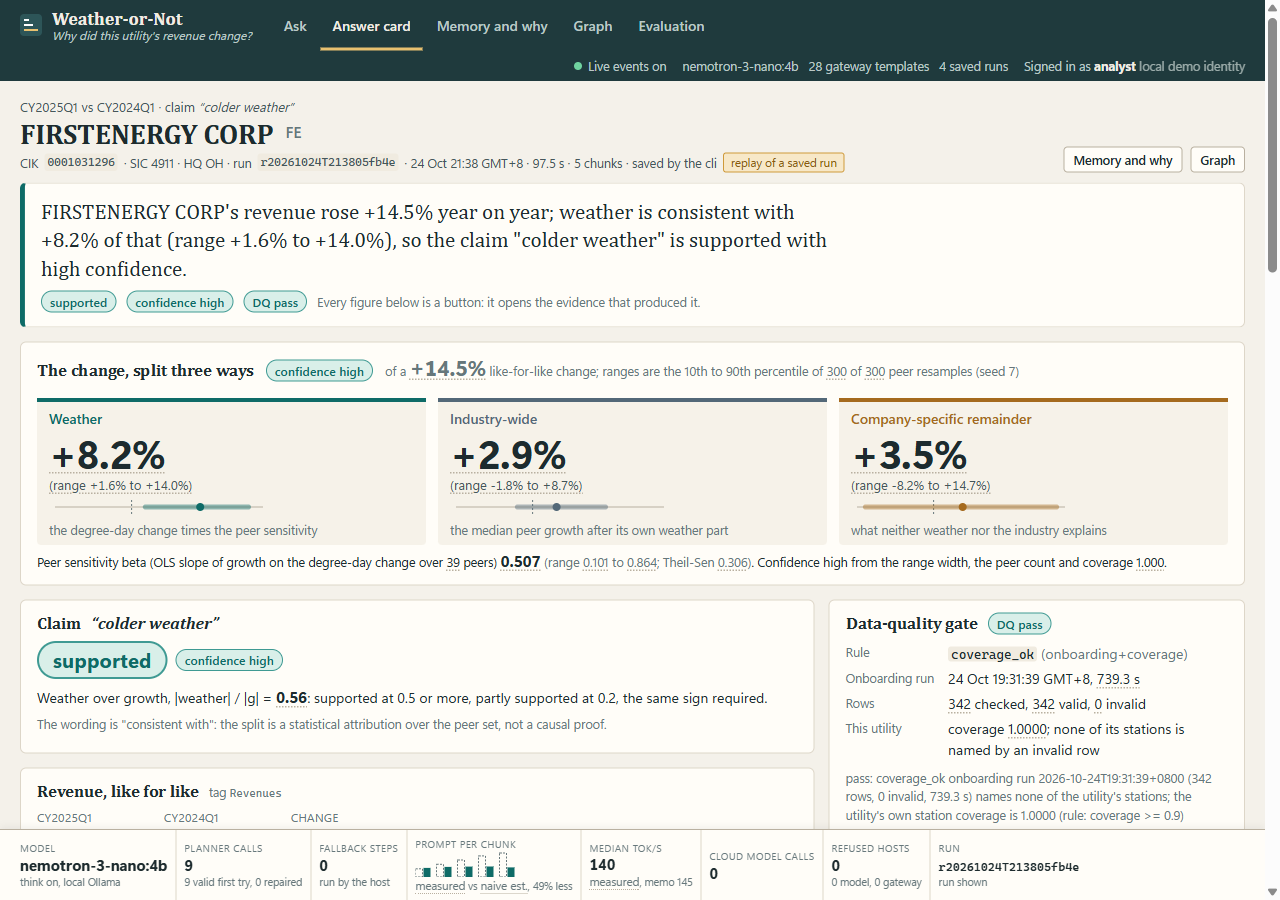
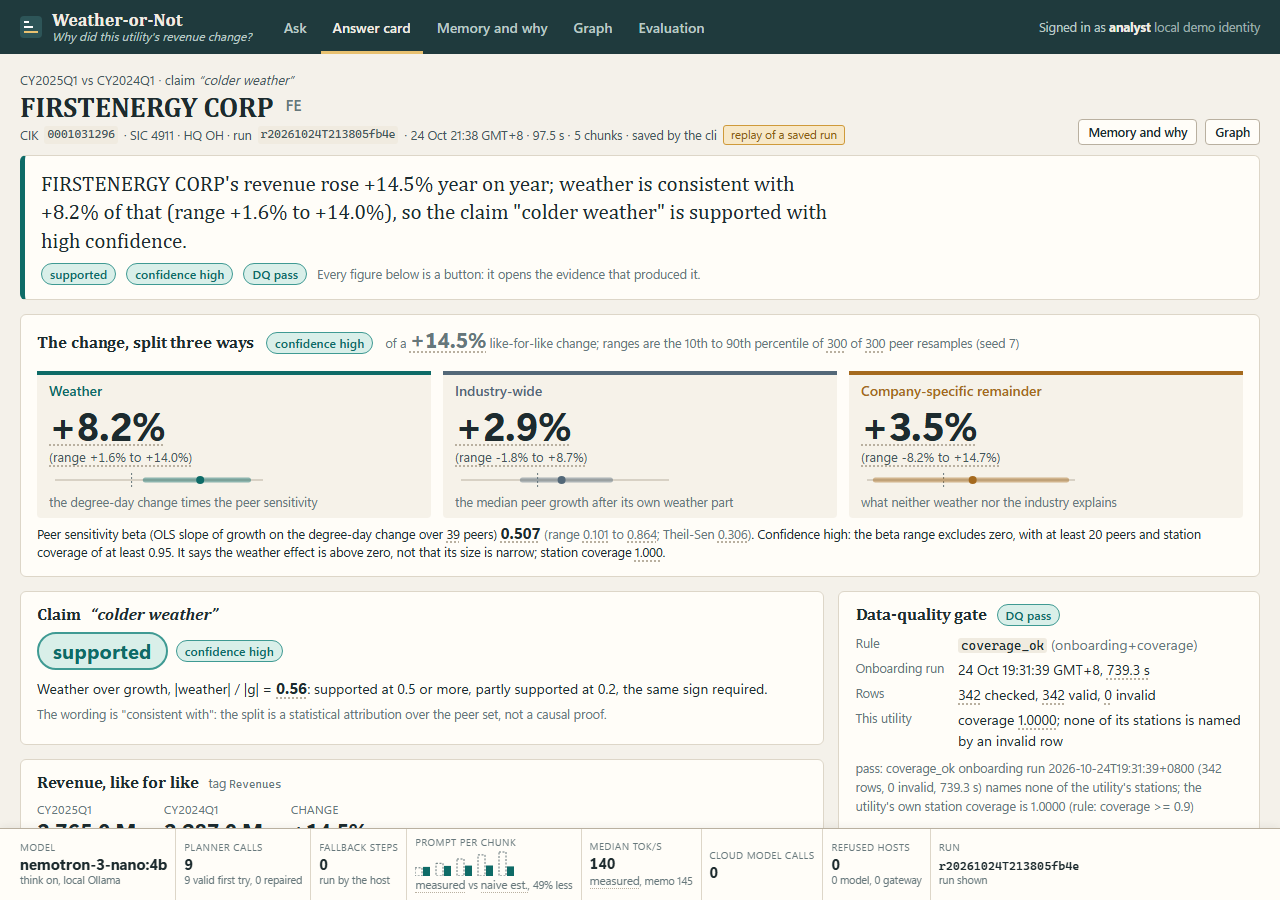
README: answer card first, the problem and the result in plain words, one line per sponsor technology
The top of the README now shows the FirstEnergy answer card, the problem in one paragraph, the result in two sentences with what "supported" (central estimate over half the change, ratio 0.56) and "high" (the beta range stays above zero with 39 peers and full coverage; not that 8.2 is precise) mean, one bullet each for Zetaris, Meterless and NVIDIA Nemotron, the single "Developed in Cursor" sentence, how to run, and links to the deck PDF and the demo case. The measured bullets follow under "Measured on the demo case". The card image is re-rendered from the saved run r20261024T213805fb4e with the repository's own card and footer views, offline, so it shows the corrected confidence sentence. Pre-existing code: ClearShelf is linked, with the measured share (28 files with the "Adapted from ClearShelf" header, 8,142 lines, 7,379 non-blank, at 4d2a5b6 and unchanged since). The NVIDIA section explains the video's 96 tokens/s footer (recorded under screen capture); the Scout row names the upstream injection regression set (same content as upstream, blob ca3dc0a), asserted case by case offline. how-cursor-was-used.md says "outside the three Cursor Agent runs".

diff --git a/README.md b/README.md
@@ -1,24 +1,40 @@
 # Weather-or-Not
 
-**The utility says it was the weather. Weather-or-Not checks.** It splits a US electric utility's year-on-year revenue change into a weather part, an industry-wide part and a company-specific remainder, each with a range and a confidence label, and cites every number to the Lightning SQL that produced it.
+**The utility says it was the weather. Weather-or-Not checks.**
 
 Open Agent Hackathon 2026, Track 2: The Agent That Can Explain Why. Team: Umar Mohktar, Singapore - solo.
 
-- **User:** anyone who is handed the sentence "it was the weather" and has to decide whether to believe it: a state utility-commission analyst or consumer advocate preparing for a rate case, a utility credit analyst in earnings season, a reporter.
-- **Problem:** revenue moves with heating and cooling demand, with rates, with fuel pass-through and with load growth, and the filing credits "colder weather" in one sentence. Checking that sentence by hand means reading two quarters of a utility's own filings (where the comparative column can be restated), the same quarters for every peer, and daily temperatures at the airports of every state served.
-- **Measured on the demo case** (FirstEnergy, CY2025Q1 against CY2024Q1; details in [`docs/demo-case.md`](docs/demo-case.md) and [`docs/eval-report.md`](docs/eval-report.md)):
-  - Revenue rose +14.5% like for like (3,765.0 million in the quarter's own 10-Q against 3,287.0 million as that filing restates the prior quarter; both accession numbers are on the card). Total degree days over the utility's 9 stations in 5 states rose +16.2%, coverage 1.00.
-  - Weather is consistent with +8.2% of that change (range +1.6% to +14.0%), the industry-wide part +2.9% (range -1.8% to +8.7%), the company-specific remainder +3.5% (range -8.2% to +14.7%); sensitivity beta 0.51 (range 0.10 to 0.86) over 39 peers; verdict **supported**, confidence **high**. The verdict compares the central estimate with the change (ratio 0.564, supported at 0.5 or more); confidence high means the beta range excludes zero with 39 peers and coverage 1.00, not that the weather range is narrow. The same card came out of five runs of the question, to the printed digit.
-  - The run took 97.5 s on one local GPU: 5 Markovian chunks, 9 planner calls, all valid on the first reply; the two degree-day statements in Lightning SQL took 20.0 and 21.0 s of it. The memo (184 words) was written by the model and every one of its numbers matched a tool output.
-  - A second utility (American Electric Power) carries a live restatement: its own 10-Q reports 5,463.4 million for the quarter, the next year's 10-Q restates it as 5,463.0 million. The agent records the conflict, resolves it by rule R1, and the analyst can override it under a signed contract.
+Demo video (3:48): https://youtu.be/JXRQMF2Xfl0 · Deck (12 slides): [`docs/deck/WeatherOrNot.pdf`](docs/deck/WeatherOrNot.pdf) · The demo case step by step: [`docs/demo-case.md`](docs/demo-case.md)
 
-Demo video: https://youtu.be/JXRQMF2Xfl0 (unlisted, 3:48).
+![The answer card for FirstEnergy, Q1 2025 against Q1 2024: a +14.5% revenue change split into weather +8.2% (range +1.6% to +14.0%), industry-wide +2.9% and a company-specific +3.5%; claim supported, confidence high, with the confidence rule stated in words; every figure opens the evidence behind it.](docs/deck/img/card-fe.png)
+
+**The problem.** When a US electric utility's revenue jumps, its quarterly filing often credits the weather in one sentence. A state commission analyst preparing for a rate case, a credit analyst in earnings season or a reporter has to decide whether to believe it, and checking it by hand means the utility's own filings (whose comparative column a later filing can restate), the same quarters for dozens of peers, and daily temperatures at the airports of every state it serves. Weather-or-Not does that check in about two minutes: it splits the change into a weather part, an industry-wide part and a company-specific remainder, each with a range, gives a verdict on the claim, lists what it did not test, and cites every number to the Lightning SQL that produced it.
+
+**The demo result.** FirstEnergy's Q1 2025 10-Q says heating degree days were "15% above the same period of 2024"; Weather-or-Not's 9 stations show total degree days up 16.2%, and across 39 peer utilities weather is consistent with 8.2 of the 14.5-point revenue rise (range 1.6 to 14.0), so the claim is "supported": the central estimate is over half the change (ratio 0.56; the rule is 0.5 or more). Confidence is "high" because the peers' sensitivity to degree days (beta, 10th to 90th percentile) stays above zero with 39 peers and full station coverage, so the weather effect is above zero; it does not mean 8.2 is precise, since the weather range runs from a small part of the change to nearly all of it.
+
+- **Zetaris** is the only data path: SEC EDGAR, NOAA GHCN-Daily and the company_dns SIC list are Lightning REST and parquet tables, degree days are computed in Lightning SQL, the `weather_or_not_usl` semantic layer holds the governed copies, and its `coverage_ok` result (run at onboarding) plus the question's own station coverage gate the verdict.
+- **Meterless**: the Markovian engine runs each question as bounded chunks with a flat carryover, H-MEM keeps every fact with its Zetaris provenance and records restatements as conflicts, and the World Model dates every edge by source time; all three are vendored unchanged and pass their own conformance suites (13/13, 8/8, 8/8).
+- **NVIDIA Nemotron 3 Nano 4B** runs locally with 0 cloud model calls: it picks each next step from the ones the checklist allows and writes the memo; it never computes a number, and every number in the memo must match a tool output. In the four clean runs its pick was the checklist's next step every time (34 of 34 calls).
+- Developed in Cursor; see [`docs/how-cursor-was-used.md`](docs/how-cursor-was-used.md).
+
+**How to run.** Without Zetaris or a GPU, a fresh clone runs the 203 agent tests, the type check, the three engine conformance suites and the gateway tests (236 passed, 2 skipped); the UI then starts in its empty state ([Quickstart A](#a-three-minute-check-no-zetaris-no-gpu)). The full stack needs the Zetaris platform in local Docker, Java 11 or newer, Python 3.12, Node 22.12 or newer and Ollama with `nemotron-3-nano:4b` ([Quickstart B](#b-full-stack-zetaris-gateway-agent-and-ui)); one question then takes about 100 to 130 s.
+
+## Measured on the demo case
+
+**User:** anyone who is handed the sentence "it was the weather" and has to decide whether to believe it: a state utility-commission analyst or consumer advocate preparing for a rate case, a utility credit analyst in earnings season, a reporter.
+
+FirstEnergy, CY2025Q1 against CY2024Q1; details in [`docs/demo-case.md`](docs/demo-case.md) and [`docs/eval-report.md`](docs/eval-report.md):
+
+- Revenue rose +14.5% like for like (3,765.0 million in the quarter's own 10-Q against 3,287.0 million as that filing restates the prior quarter; both accession numbers are on the card). Total degree days over the utility's 9 stations in 5 states rose +16.2%, coverage 1.00.
+- Weather is consistent with +8.2% of that change (range +1.6% to +14.0%), the industry-wide part +2.9% (range -1.8% to +8.7%), the company-specific remainder +3.5% (range -8.2% to +14.7%); sensitivity beta 0.51 (range 0.10 to 0.86) over 39 peers; verdict **supported**, confidence **high**. The verdict compares the central estimate with the change (ratio 0.564, supported at 0.5 or more); confidence high means the beta range excludes zero with 39 peers and coverage 1.00, not that the weather range is narrow. The same card came out of five runs of the question, to the printed digit.
+- The run took 97.5 s on one local GPU: 5 Markovian chunks, 9 planner calls, all valid on the first reply; the two degree-day statements in Lightning SQL took 20.0 and 21.0 s of it. The memo (184 words) was written by the model and every one of its numbers matched a tool output.
+- A second utility (American Electric Power) carries a live restatement: its own 10-Q reports 5,463.4 million for the quarter, the next year's 10-Q restates it as 5,463.0 million. The agent records the conflict, resolves it by rule R1, and the analyst can override it under a signed contract.
 
 ![Weather-or-Not architecture: SEC EDGAR, NOAA GHCN-Daily and the company_dns SIC list are read only through Zetaris Lightning; a gateway exposes named SQL templates; a Markovian question chain planned by local Nemotron runs ten deterministic tools; H-MEM and the World Model keep provenance and history; every number cites its evidence record; the analyst works in the UI.](docs/architecture.png)
 
 ## Contents
 
-[What it does](#what-it-does) · [What is new](#what-is-new) · [Quickstart](#quickstart) · [Architecture](#architecture) · [Zetaris](#zetaris-the-data-layer) · [Meterless](#meterless-reasoning-memory-and-contracts) · [NVIDIA](#nvidia-nemotron-3-nano-4b-locally) · [Cursor](#how-cursor-was-used) · [Evaluation](#evaluation) · [Limitations](#limitations) · [Responsible use](#responsible-use) · [Dependencies](#dependencies-and-licences) · [Data and licences](#data-and-licences) · [Pre-existing code](#pre-existing-code) · [Licence](#licence)
+[Measured on the demo case](#measured-on-the-demo-case) · [What it does](#what-it-does) · [What is new](#what-is-new) · [Quickstart](#quickstart) · [Architecture](#architecture) · [Zetaris](#zetaris-the-data-layer) · [Meterless](#meterless-reasoning-memory-and-contracts) · [NVIDIA](#nvidia-nemotron-3-nano-4b-locally) · [Cursor](#how-cursor-was-used) · [Evaluation](#evaluation) · [Limitations](#limitations) · [Responsible use](#responsible-use) · [Dependencies](#dependencies-and-licences) · [Data and licences](#data-and-licences) · [Pre-existing code](#pre-existing-code) · [Licence](#licence)
 
 ## What it does
 
@@ -210,7 +226,7 @@ The engines come from [Meterless/Meterless](https://github.com/Meterless/Meterle
 | **Markovian**, vendored | One question is one chain of bounded chunks (carryover 800 tokens, at most 10 chunks). Nemotron plans each chunk, a `NEEDS_TOOL` executor runs the chosen tool, the host digests the result and plans again, at most two tools per chunk. Measured on the four clean runs: planner first-attempt prompts between 1,421 and 2,317 tokens (a repair prompt, which repeats the reply and the errors, up to 4,178); first-call prompts summed per run 5,521 to 6,812 against a full-history estimate of 10,251 to 13,770; carryover at most 284 to 387 tokens. | `agent/src/loop/` | 8/8 |
 | **H-MEM**, vendored and extended by subclass | Facts with Zetaris provenance (object, SQL sha256, endpoint, accession number, filing date, licence, retrieval time, latency, cache state), reconfirmed rather than duplicated, with the earlier retrievals kept in a history. `recast_comparative` conflicts keep both memories and both accession numbers, are resolved by rule R1 and can be overridden by the analyst under a signed contract. Remembered tag and station choices make a warm run skip the probe step (4 chunks instead of 5). `why(memoryId)` prints the ledger. | `agent/src/memory/` | 13/13 vendored; 13/13 with the Weather-or-Not subclass loaded through the engine's own runner |
 | **World Model**, vendored and wrapped | A graph of utilities, states, stations, SIC codes, filings and quarters; `serves` edges valid from the annual report's description, `reported_in` edges valid from the filing date, `peer_of` edges per period with g and dw. Every write's time is the source record's own date, so re-ingesting the same rows appends nothing: the warm runs left the event count at 769. | `agent/src/world/` | 8/8; idempotency check `diff: empty` |
-| **Scout Intent**, partial reimplementation (no reference engine is vendored) | Risk classes and HMAC-signed, single-use execution contracts that expire within 15 minutes: medium risk for the gateway's registrar plans (verified by the Python gateway, with a shared test vector), high risk for `override_recast` with an analyst approval and a reason (verified by the agent server; the refusal is logged and nothing is written). This is an integrity check, as in Scout's own documentation, not cryptographic-grade security. The injection guard is kept from the sister project; the model's inputs here are host-formatted digests of tool outputs (utility names and numbers from the sources), not free-text documents. | `agent/src/contract/` | none (partial, labelled) |
+| **Scout Intent**, partial reimplementation (no reference engine is vendored) | Risk classes and HMAC-signed, single-use execution contracts that expire within 15 minutes: medium risk for the gateway's registrar plans (verified by the Python gateway, with a shared test vector), high risk for `override_recast` with an analyst approval and a reason (verified by the agent server; the refusal is logged and nothing is written). This is an integrity check, as in Scout's own documentation, not cryptographic-grade security. The injection guard is kept from the sister project; the model's inputs here are host-formatted digests of tool outputs (utility names and numbers from the sources), not free-text documents. The upstream Scout injection regression set (`agent/test/fixtures/scout-injection/adversarial.jsonl`, 10 cases, the same content as upstream's `engines/scout-intent/evals/regression-set/v1/injection/adversarial.jsonl` at `1742dec`: `git hash-object` gives upstream's blob id `ca3dc0a`) is asserted case by case in `guard.test.ts` inside the 203 agent tests, offline. | `agent/src/contract/` | none (partial, labelled); the injection set 10/10 |
 
 ## NVIDIA: Nemotron 3 Nano 4B, locally
 
@@ -229,11 +245,13 @@ The engines come from [Meterless/Meterless](https://github.com/Meterless/Meterle
 | Cloud model calls | 0, by construction: the model client accepts loopback URLs only |
 | Cold against warm | a warm run skips the tag probe from memory (4 chunks instead of 5, 8 planner calls instead of 9) but is not faster in wall time: the degree-day statements and the repair rounds dominate |
 
+The demo video's footer reads 96 tokens/s because that live run was recorded while a headless browser took screenshots of the page on the same machine; the 139.2 to 140.4 tokens/s above are from the four clean runs, recorded without capture.
+
 What the bench shows plainly: when the first reply is empty, it is because the model spent the whole output budget thinking (Ollama `done_reason` `length`), on the `not_tested` and `finalize` steps. Raising the budget from 2,048 to 3,072 did not stop it; a repair round with think off fixed every such case on the four clean runs in about 24 s each. In two further verification runs through the server the think-off repair once produced a wrong tag and the deterministic fallback ran `attribute` instead; the card was unaffected because the step is deterministic.
 
 ## How Cursor was used
 
-Developed in Cursor; see [`docs/how-cursor-was-used.md`](docs/how-cursor-was-used.md). That page lists the three headless task runs that wrote the deterministic tools (degree days, attribution, like-for-like revenue with rule R1; 1,824 of the 1,844 lines in eight files), their commits, what the reviewer corrected afterwards, and what was built outside those runs: everything else.
+[`docs/how-cursor-was-used.md`](docs/how-cursor-was-used.md) lists the three headless task runs that wrote the deterministic tools (degree days, attribution, like-for-like revenue with rule R1; 1,824 of the 1,844 lines in eight files), their commits, what the reviewer corrected afterwards, and what was built outside those runs: everything else.
 
 ## Evaluation
 
@@ -323,7 +341,7 @@ Weather-or-Not was written for this hackathon. The pre-existing code is:
 
 - **The Meterless reference engines** H-MEM, Markovian and World Model (Apache-2.0), vendored unchanged in `engines/`.
 - **`gateway/jdbc.py`**, adapted from `scripts/zetaris_sql.py` in the [Zetaris getting-started repository](https://github.com/zetaris/getting-started) at commit `6a2fbaa` (Apache-2.0): the `.env.local` loader, the SQL statement splitter and the JayDeBeApi channel; Windows JDK discovery, column names and timings in results, a bounded wait with statement cancel and a lock per connection were added.
-- **Scaffolding from ClearShelf**, the author's Track 3 entry (Apache-2.0, same author, declared as pre-existing): the gateway pattern (templates, allowlist, registrar, contract check), the agent server and SSE pattern, the Markovian generator and telemetry, the H-MEM facade and World Model wrapper patterns, the evidence store, the contract module, the UI shell and `ui/lib.js`. Each adapted file says so in its header; everything specific to this entry (the Zetaris objects and USL, the templates, the ten tools and the method, the recast conflicts, the question chain, the analyst screens, the evaluation) is new.
+- **Scaffolding from ClearShelf**, the author's Track 3 entry (Apache-2.0, same author, declared as pre-existing): the gateway pattern (templates, allowlist, registrar, contract check), the agent server and SSE pattern, the Markovian generator and telemetry, the H-MEM facade and World Model wrapper patterns, the evidence store, the contract module, the UI shell and `ui/lib.js`. Each adapted file says so in its header; everything specific to this entry (the Zetaris objects and USL, the templates, the ten tools and the method, the recast conflicts, the question chain, the analyst screens, the evaluation) is new. ClearShelf is public at https://github.com/GitHubMoreLikeGitGud/clearshelf. At the submitted commit `4d2a5b6`, and unchanged since, 28 files carry the "Adapted from ClearShelf" header, 8,142 lines in all (7,379 non-blank), counting what was added to them (`git grep -l -i "adapted from clearshelf"`, then `wc -l`).
 
 ## Licence
 

diff --git a/docs/how-cursor-was-used.md b/docs/how-cursor-was-used.md
@@ -44,7 +44,7 @@ Wall time of the three runs: 122.4 + 198.1 + 163.3 = 483.8 s of Cursor Agent tim
 
 ## What Cursor Agent did not write
 
-Everything else was written outside Cursor Agent, by the author:
+Everything else was written outside the three Cursor Agent runs:
 
 - the task files, the known-answer fixtures and their generator (`agent/test/fixtures/make_fixtures.py`);
 - the Zetaris objects: every Lightning SQL pair in `zetaris/sql/`, the `weather_or_not_usl` model and its DQ rule, `zetaris/README.md` and the manifest;
